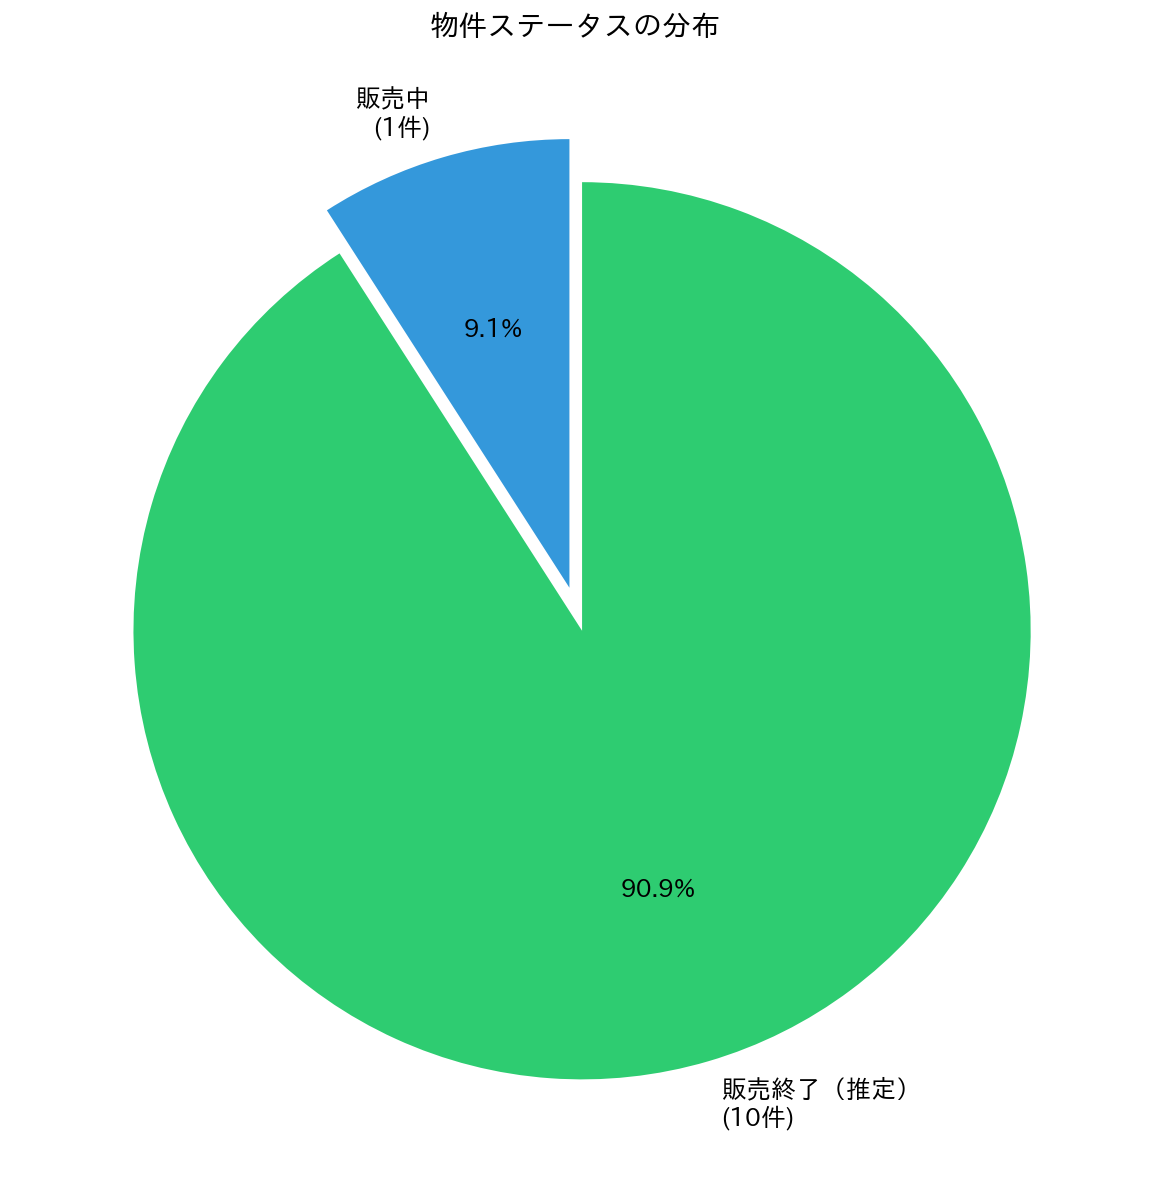
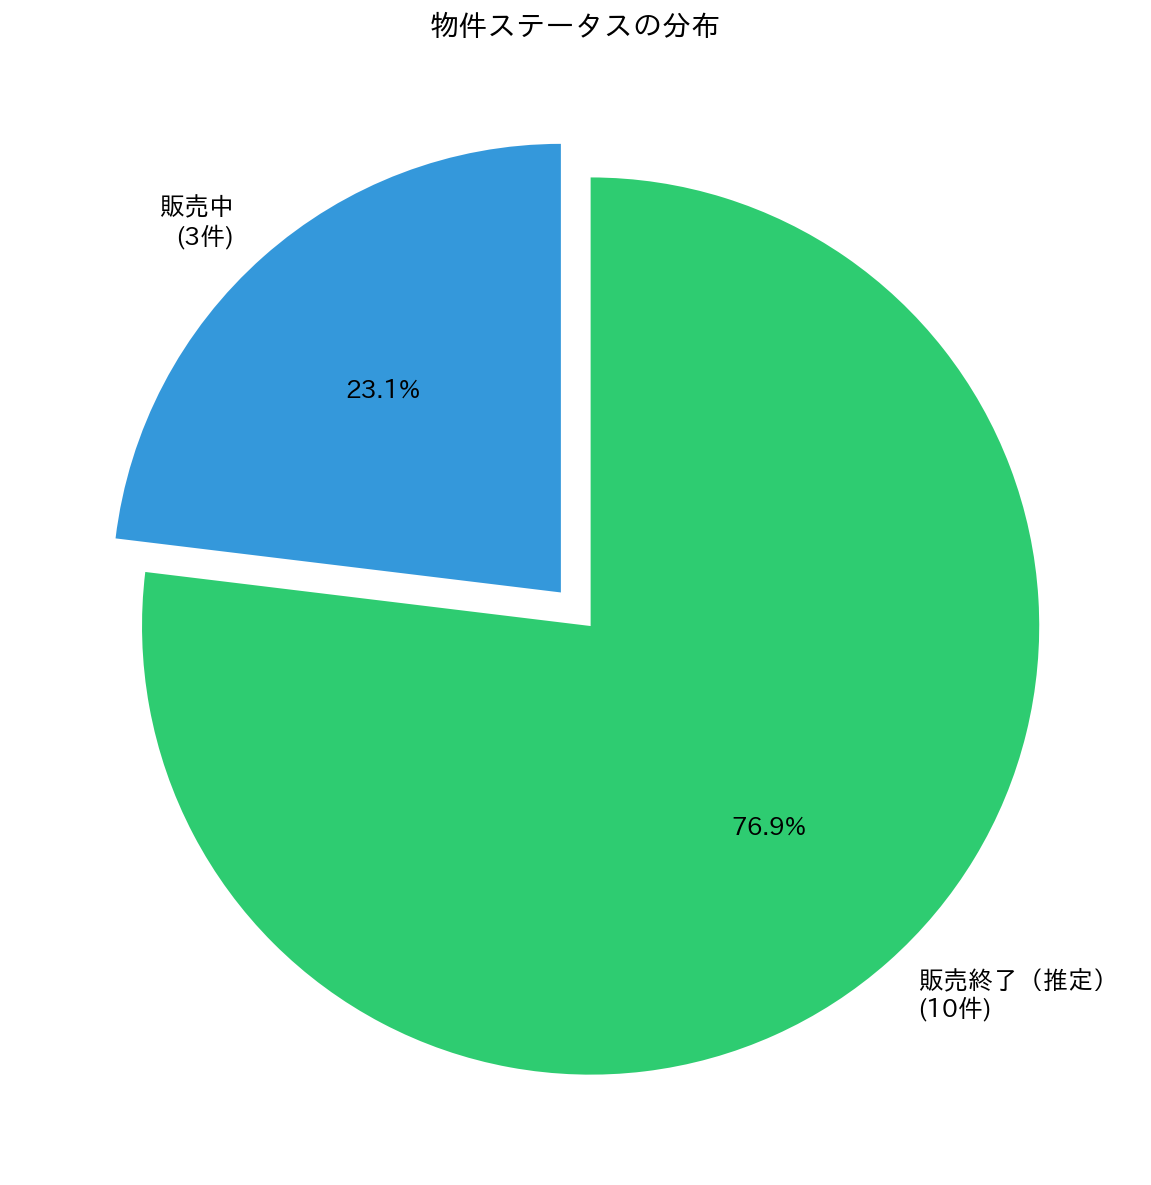
🤖 Update property tracking data [2026-06-03 13:25]

diff --git a/data/mlit_matching_report.md b/data/mlit_matching_report.md
@@ -1,5 +1,5 @@
 # MLIT API マッチングレポート
-生成日時: 2026-06-02 03:07:59
+生成日時: 2026-06-03 13:24:58
 
 ## 概要
 このレポートは、スムストックで販売終了した物件と、国土交通省の不動産取引価格情報を照合した結果です。
@@ -52,7 +52,7 @@
 **スムストックデータ:**
 - 建物面積: 165.3m²
 - 土地面積: 217.6m²
-- 掲載期間: 2025-10-19 ～ 2026-05-01
+- 掲載期間: 2025-10-19 ～ 2026-06-01
 - 最終価格: 12000万円
 
 **類似取引が見つかりませんでした**
@@ -64,7 +64,7 @@
 **スムストックデータ:**
 - 建物面積: 130.58m²
 - 土地面積: 103.0m²
-- 掲載期間: 2025-10-22 ～ 2026-05-01
+- 掲載期間: 2025-10-22 ～ 2026-06-01
 - 最終価格: 2498万円
 
 **類似取引が見つかりませんでした**
@@ -76,7 +76,7 @@
 **スムストックデータ:**
 - 建物面積: 155.32m²
 - 土地面積: 109.3m²
-- 掲載期間: 2025-11-01 ～ 2026-04-07
+- 掲載期間: 2025-11-01 ～ 2026-06-01
 - 最終価格: 7980万円
 
 **類似取引が見つかりませんでした**
@@ -124,7 +124,7 @@
 **スムストックデータ:**
 - 建物面積: 112.69m²
 - 土地面積: 118.18m²
-- 掲載期間: 2026-05-01 ～ 2026-05-01
+- 掲載期間: 2026-05-01 ～ 2026-06-01
 - 最終価格: 4730万円
 
 **類似取引が見つかりませんでした**

diff --git a/data/tracking_report.md b/data/tracking_report.md
@@ -1,10 +1,10 @@
 
 # 物件追跡レポート
-生成日時: 2026-06-02 03:07:54
+生成日時: 2026-06-03 13:24:53
 
 ## 概要
-- 追跡中の物件総数: 11件
-- 販売中: 1件
+- 追跡中の物件総数: 13件
+- 販売中: 3件
 - 販売終了（推定）: 10件
 
 ## 販売期間
